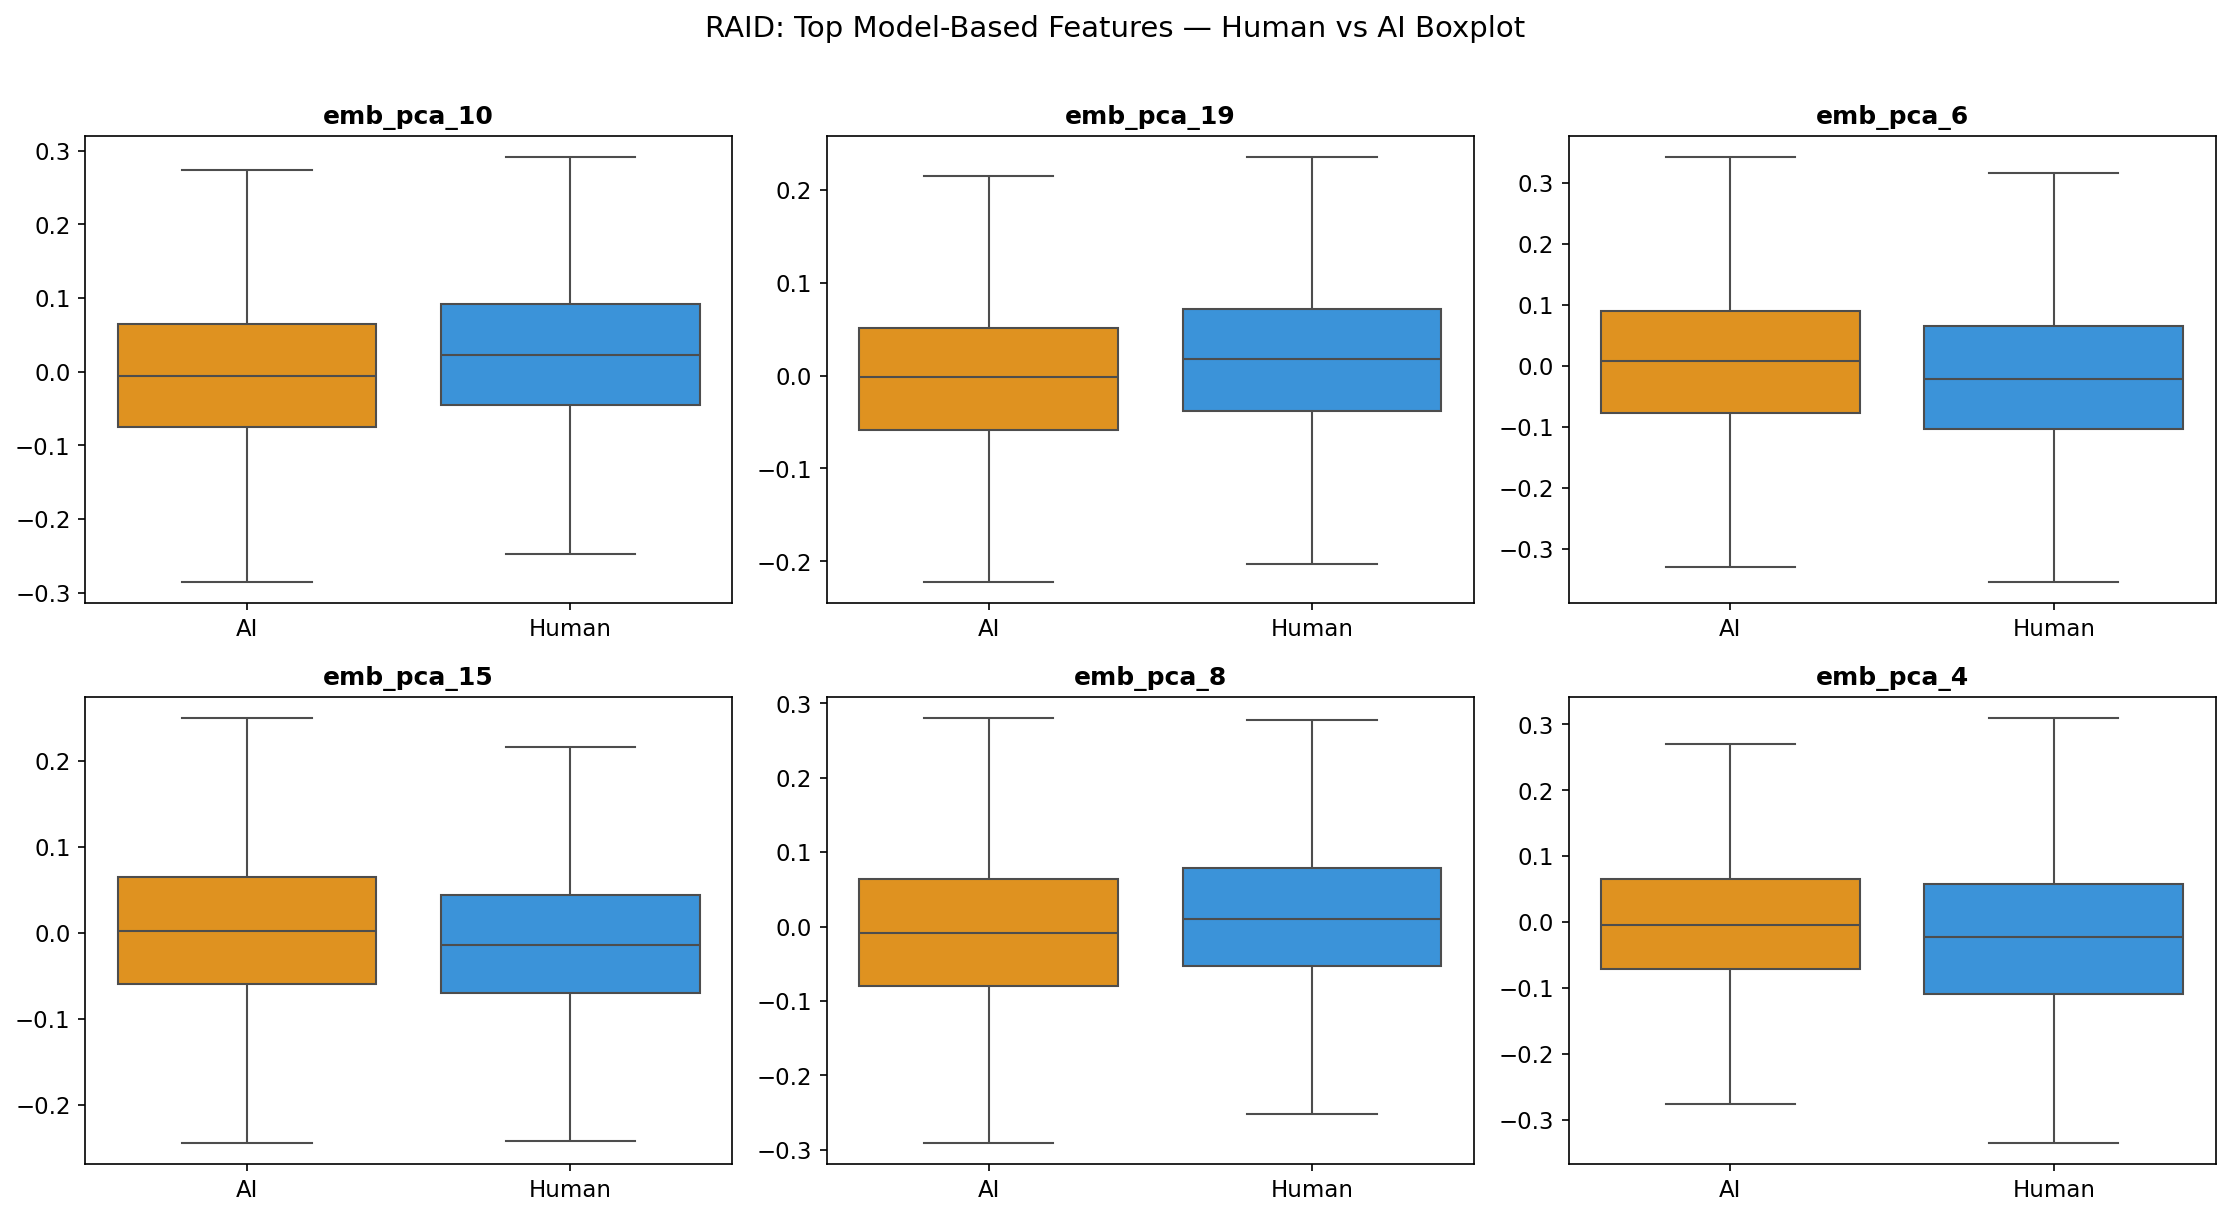
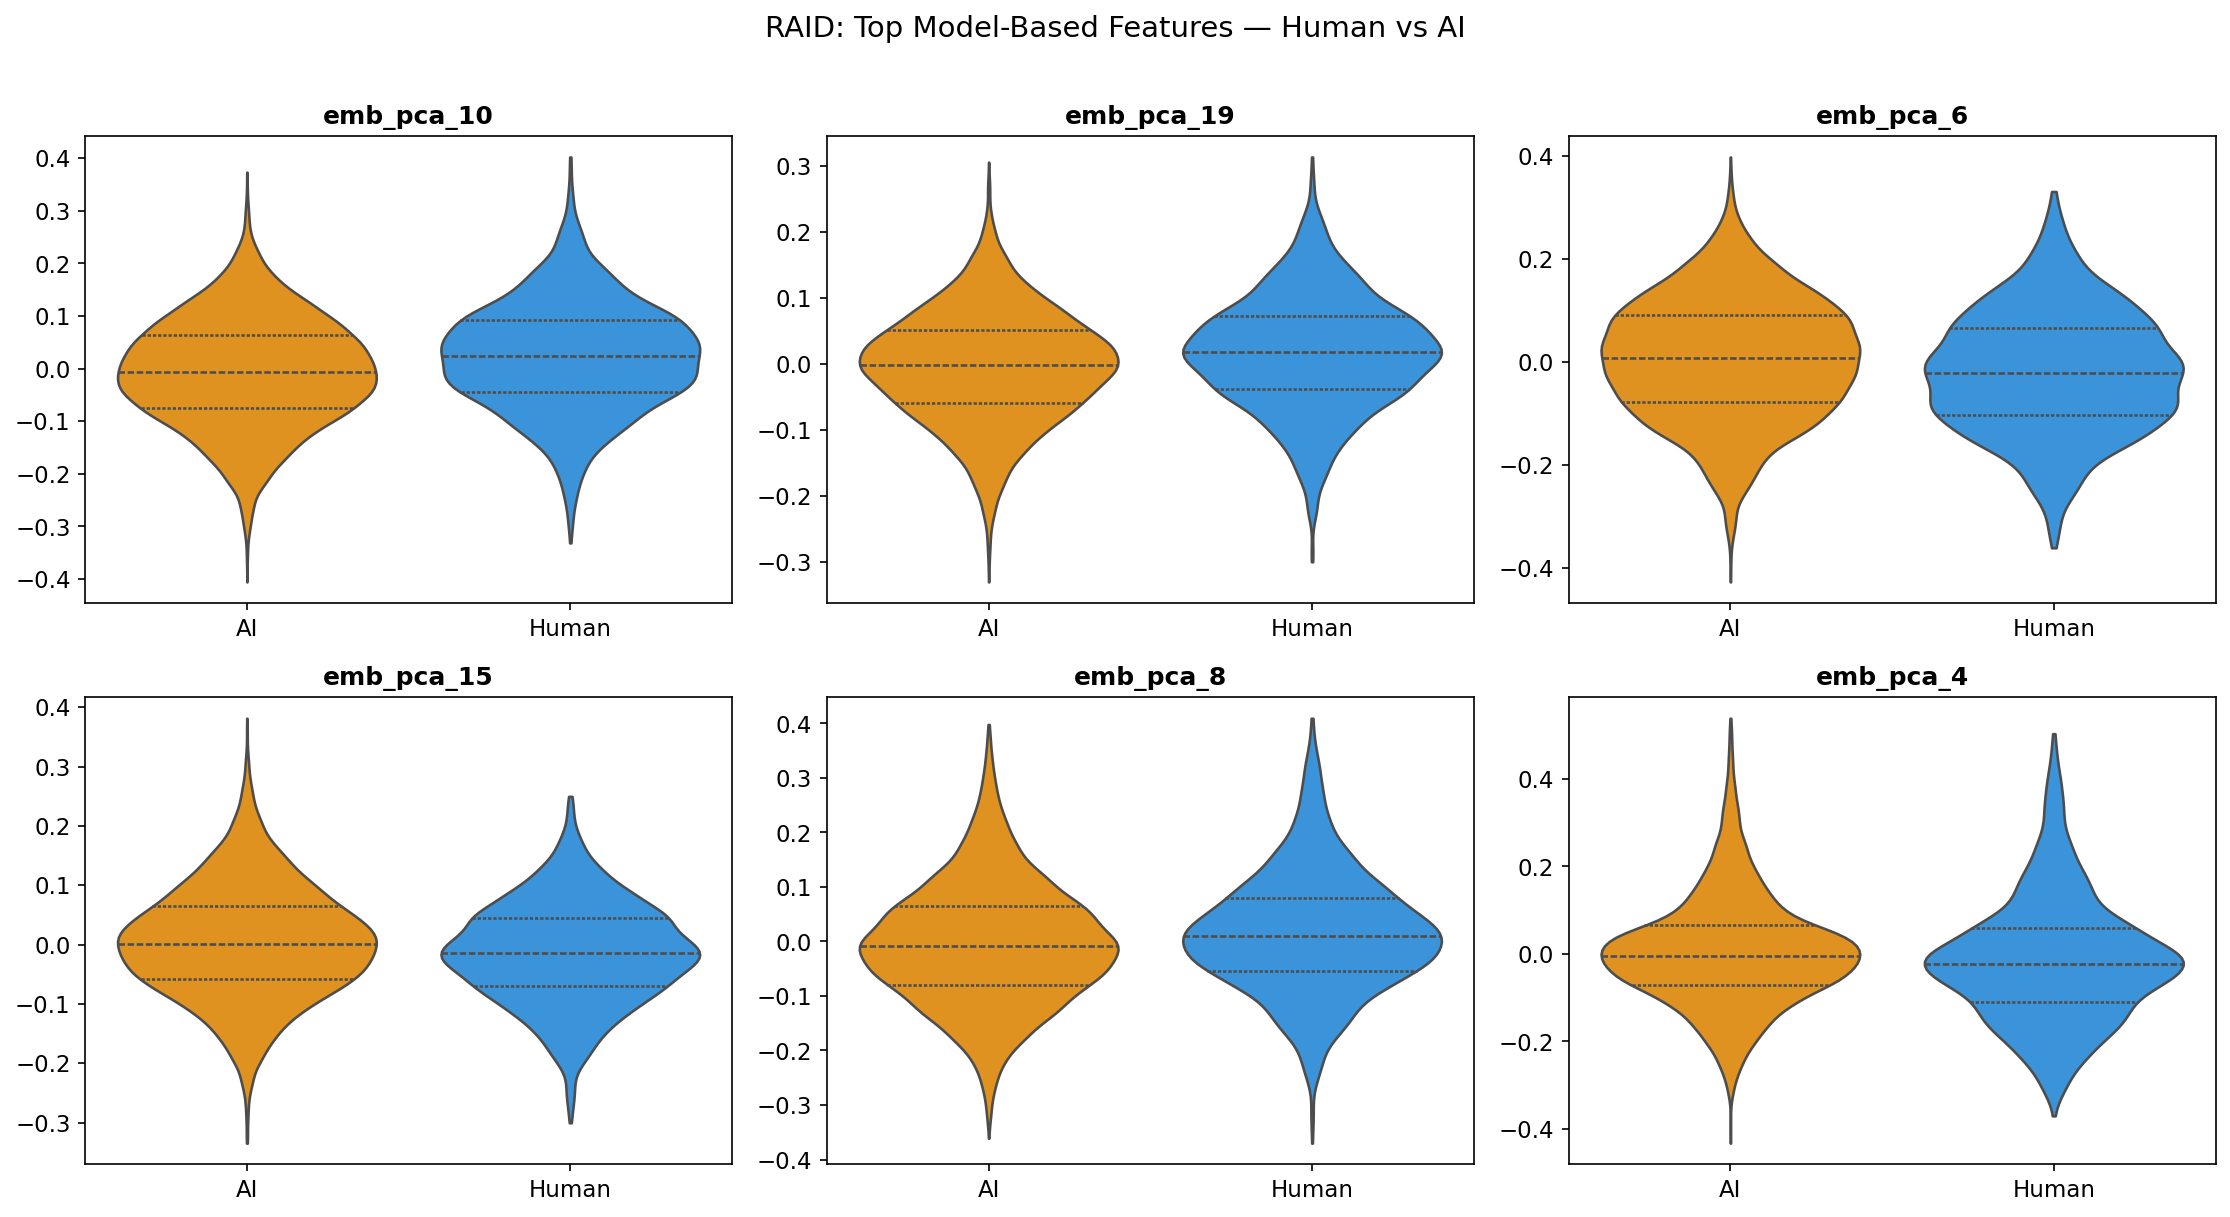
Change all boxplots to violin plots for better distribution visibility

diff --git a/src/run_raid_feature_deep.py b/src/run_raid_feature_deep.py
@@ -103,7 +103,7 @@ def plot_single_feature_dist(X_test, y_test, stats_df):
 
 
 def plot_single_feature_boxplot(X_test, y_test, stats_df):
-    """Boxplots for top-6 Model-Free features."""
+    """Violin plots for top-6 Model-Free features."""
     mf_df = stats_df[~stats_df['feature'].str.startswith(('emb_pca_', 'gpt2_'))].reset_index(drop=True)
     top6 = mf_df.head(6)['feature'].values
     fig, axes = plt.subplots(2, 3, figsize=(15, 8))
@@ -112,12 +112,12 @@ def plot_single_feature_boxplot(X_test, y_test, stats_df):
             'value': X_test[feat].values,
             'label': ['Human' if y == 0 else 'AI' for y in y_test]
         })
-        sns.boxplot(data=plot_data, x='label', y='value', ax=ax,
-                    palette={'Human': '#2196F3', 'AI': '#F44336'}, showfliers=False)
+        sns.violinplot(data=plot_data, x='label', y='value', ax=ax,
+                       palette={'Human': '#2196F3', 'AI': '#F44336'}, cut=0, inner='quartile')
         ax.set_title(feat, fontsize=12, fontweight='bold')
         ax.set_xlabel('')
         ax.set_ylabel('')
-    plt.suptitle('RAID: Top Model-Free Features — Human vs AI Boxplot', fontsize=14, y=1.01)
+    plt.suptitle('RAID: Top Model-Free Features — Human vs AI', fontsize=14, y=1.01)
     plt.tight_layout()
     plt.savefig(FIG_DIR / 'raid_single_feature_boxplot.png', dpi=150, bbox_inches='tight')
     plt.close()
@@ -125,7 +125,7 @@ def plot_single_feature_boxplot(X_test, y_test, stats_df):
 
 
 def plot_model_based_boxplot(X_test, y_test, stats_df):
-    """Boxplots for top Model-Based features (emb_pca + perplexity)."""
+    """Violin plots for top Model-Based features (emb_pca + perplexity)."""
     mb_df = stats_df[stats_df['feature'].str.startswith(('emb_pca_', 'gpt2_'))].reset_index(drop=True)
     top6 = mb_df.head(6)['feature'].values
     fig, axes = plt.subplots(2, 3, figsize=(15, 8))
@@ -134,12 +134,12 @@ def plot_model_based_boxplot(X_test, y_test, stats_df):
             'value': X_test[feat].values,
             'label': ['Human' if y == 0 else 'AI' for y in y_test]
         })
-        sns.boxplot(data=plot_data, x='label', y='value', ax=ax,
-                    palette={'Human': '#2196F3', 'AI': '#FF9800'}, showfliers=False)
+        sns.violinplot(data=plot_data, x='label', y='value', ax=ax,
+                       palette={'Human': '#2196F3', 'AI': '#FF9800'}, cut=0, inner='quartile')
         ax.set_title(feat, fontsize=12, fontweight='bold')
         ax.set_xlabel('')
         ax.set_ylabel('')
-    plt.suptitle('RAID: Top Model-Based Features — Human vs AI Boxplot', fontsize=14, y=1.01)
+    plt.suptitle('RAID: Top Model-Based Features — Human vs AI', fontsize=14, y=1.01)
     plt.tight_layout()
     plt.savefig(FIG_DIR / 'raid_model_based_boxplot.png', dpi=150, bbox_inches='tight')
     plt.close()
@@ -147,7 +147,7 @@ def plot_model_based_boxplot(X_test, y_test, stats_df):
 
 
 def plot_token_boxplot(X_tok_test, y_test):
-    """Boxplots for top-6 token features."""
+    """Violin plots for top-6 token features."""
     from run_raid_analysis import load_token_features
     # Compute AUC for each token feature
     records = []
@@ -168,12 +168,12 @@ def plot_token_boxplot(X_tok_test, y_test):
             'value': X_tok_test[feat].values,
             'label': ['Human' if y == 0 else 'AI' for y in y_test]
         })
-        sns.boxplot(data=plot_data, x='label', y='value', ax=ax,
-                    palette={'Human': '#2196F3', 'AI': '#F44336'}, showfliers=False)
+        sns.violinplot(data=plot_data, x='label', y='value', ax=ax,
+                       palette={'Human': '#2196F3', 'AI': '#F44336'}, cut=0, inner='quartile')
         ax.set_title(feat, fontsize=12, fontweight='bold')
         ax.set_xlabel('')
         ax.set_ylabel('')
-    plt.suptitle('RAID: Top Token Features — Human vs AI Boxplot', fontsize=14, y=1.01)
+    plt.suptitle('RAID: Top Token Features — Human vs AI', fontsize=14, y=1.01)
     plt.tight_layout()
     plt.savefig(FIG_DIR / 'raid_token_boxplot.png', dpi=150, bbox_inches='tight')
     plt.close()
